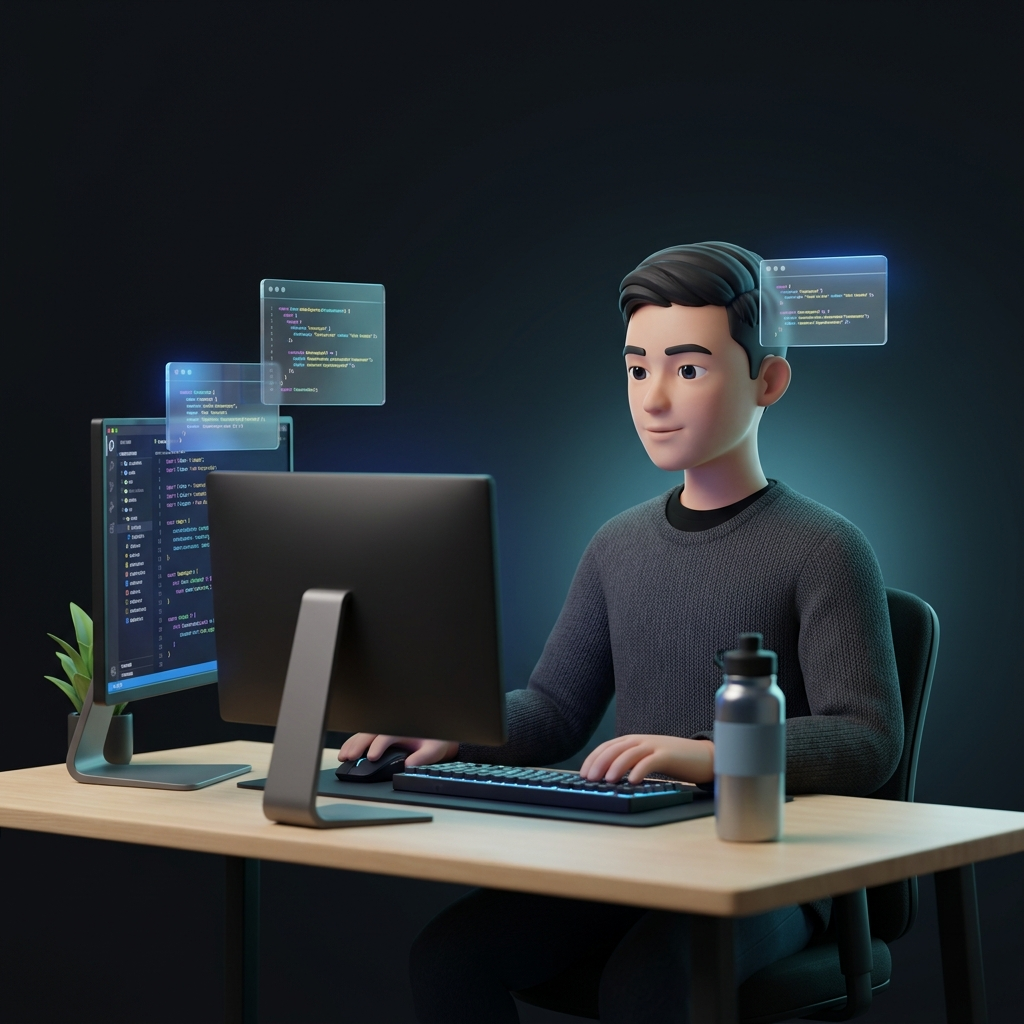
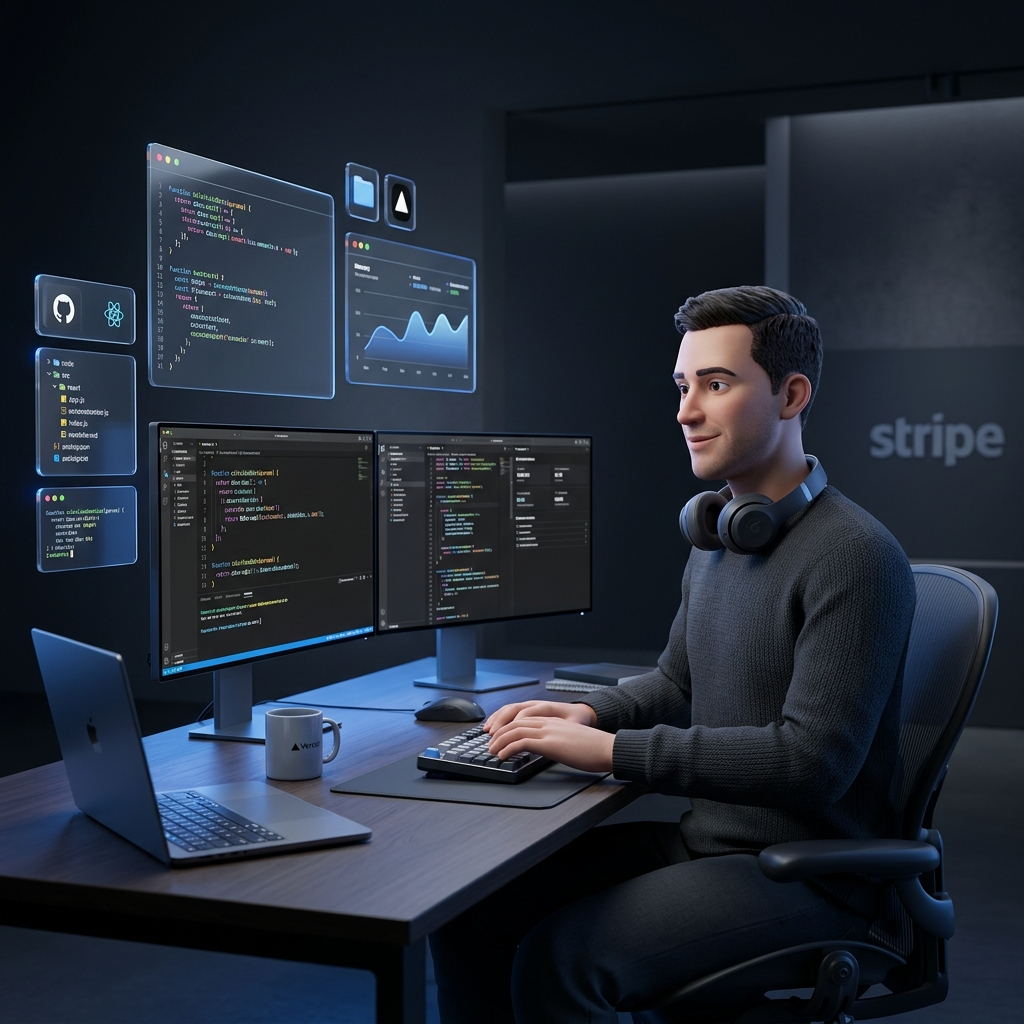
Design: updated to a more premium and detailed 3D software engineer character illustration

diff --git a/out/404.html b/out/404.html
@@ -1,1 +1,1 @@
-<!DOCTYPE html><html lang="en"><head><meta charSet="utf-8"/><meta name="viewport" content="width=device-width, initial-scale=1"/><link rel="stylesheet" href="/Portfolio/_next/static/css/2158bf51de13b72e.css" data-precedence="next"/><link rel="preload" as="script" fetchPriority="low" href="/Portfolio/_next/static/chunks/webpack-678887b2f921704d.js"/><script src="/Portfolio/_next/static/chunks/fd9d1056-421f9c5621f8b110.js" async=""></script><script src="/Portfolio/_next/static/chunks/117-5a9f8f75d3672a71.js" async=""></script><script src="/Portfolio/_next/static/chunks/main-app-9aa994c62beb1498.js" async=""></script><script src="/Portfolio/_next/static/chunks/app/layout-621f4c23dfdaa272.js" async=""></script><meta name="robots" content="noindex"/><title>404: This page could not be found.</title><title>Nabil KARARA – Portfolio Web &amp; Mobile Developer</title><meta name="description" content="Portfolio personnel de Nabil KARARA, développeur web et mobile passionné. Découvrez mes projets en React, Node.js, Java et plus."/><meta name="author" content="Nabil KARARA"/><meta name="keywords" content="développeur web,développeur mobile,React,Node.js,Java,portfolio,Nabil KARARA"/><meta name="creator" content="Nabil KARARA"/><meta name="publisher" content="Nabil KARARA"/><meta name="robots" content="index, follow"/><meta name="googlebot" content="index, follow, max-video-preview:-1, max-image-preview:large, max-snippet:-1"/><meta property="og:title" content="Nabil KARARA – Portfolio Web &amp; Mobile Developer"/><meta property="og:description" content="Portfolio personnel de Nabil KARARA, développeur web et mobile passionné."/><meta property="og:url" content="https://nkarara.github.io/Portfolio"/><meta property="og:site_name" content="Nabil KARARA Portfolio"/><meta property="og:locale" content="fr_FR"/><meta property="og:image" content="https://nkarara.github.io/Portfolio/Portfolio/NABIL_Profil.jpg"/><meta property="og:image:width" content="1200"/><meta property="og:image:height" content="630"/><meta property="og:image:alt" content="Nabil KARARA - Portfolio"/><meta property="og:type" content="website"/><meta name="twitter:card" content="summary_large_image"/><meta name="twitter:creator" content="@nabilkarara"/><meta name="twitter:title" content="Nabil KARARA – Portfolio Web &amp; Mobile Developer"/><meta name="twitter:description" content="Portfolio personnel de Nabil KARARA, développeur web et mobile passionné."/><meta name="twitter:image" content="https://nkarara.github.io/Portfolio/Portfolio/NABIL_Profil.jpg"/><script src="/Portfolio/_next/static/chunks/polyfills-42372ed130431b0a.js" noModule=""></script></head><body class="font-sans __variable_9f14f2 __variable_16c33f"><div class="liquid-bg" aria-hidden="true"></div><div class="liquid-orb-cyan" aria-hidden="true"></div><!--$--><div style="font-family:system-ui,&quot;Segoe UI&quot;,Roboto,Helvetica,Arial,sans-serif,&quot;Apple Color Emoji&quot;,&quot;Segoe UI Emoji&quot;;height:100vh;text-align:center;display:flex;flex-direction:column;align-items:center;justify-content:center"><div><style>body{color:#000;background:#fff;margin:0}.next-error-h1{border-right:1px solid rgba(0,0,0,.3)}@media (prefers-color-scheme:dark){body{color:#fff;background:#000}.next-error-h1{border-right:1px solid rgba(255,255,255,.3)}}</style><h1 class="next-error-h1" style="display:inline-block;margin:0 20px 0 0;padding:0 23px 0 0;font-size:24px;font-weight:500;vertical-align:top;line-height:49px">404</h1><div style="display:inline-block"><h2 style="font-size:14px;font-weight:400;line-height:49px;margin:0">This page could not be found.</h2></div></div></div><!--/$--><script src="/Portfolio/_next/static/chunks/webpack-678887b2f921704d.js" async=""></script><script>(self.__next_f=self.__next_f||[]).push([0]);self.__next_f.push([2,null])</script><script>self.__next_f.push([1,"1:HL[\"/Portfolio/_next/static/css/2158bf51de13b72e.css\",\"style\"]\n"])</script><script>self.__next_f.push([1,"2:I[2846,[],\"\"]\n4:I[4707,[],\"\"]\n5:I[6423,[],\"\"]\n6:I[708,[\"185\",\"static/chunks/app/layout-621f4c23dfdaa272.js\"],\"Providers\"]\n7:\"$Sreact.suspense\"\nd:I[1060,[],\"\"]\n8:{\"fontFamily\":\"system-ui,\\\"Segoe UI\\\",Roboto,Helvetica,Arial,sans-serif,\\\"Apple Color Emoji\\\",\\\"Segoe UI Emoji\\\"\",\"height\":\"100vh\",\"textAlign\":\"center\",\"display\":\"flex\",\"flexDirection\":\"column\",\"alignItems\":\"center\",\"justifyContent\":\"center\"}\n9:{\"display\":\"inline-block\",\"margin\":\"0 20px 0 0\",\"padding\":\"0 23px 0 0\",\"fontSize\":24,\"fontWeight\":500,\"verticalAlign\":\"top\",\"lineHeight\":\"49px\"}\na:{\"display\":\"inline-block\"}\nb:{\"fontSize\":14,\"fontWeight\":400,\"lineHeight\":\"49px\",\"margin\":0}\ne:[]\n"])</script><script>self.__next_f.push([1,"0:[\"$\",\"$L2\",null,{\"buildId\":\"M_cHpKryjJmSYJHP95g3o\",\"assetPrefix\":\"/Portfolio\",\"urlParts\":[\"\",\"_not-found\"],\"initialTree\":[\"\",{\"children\":[\"/_not-found\",{\"children\":[\"__PAGE__\",{}]}]},\"$undefined\",\"$undefined\",true],\"initialSeedData\":[\"\",{\"children\":[\"/_not-found\",{\"children\":[\"__PAGE__\",{},[[\"$L3\",[[\"$\",\"title\",null,{\"children\":\"404: This page could not be found.\"}],[\"$\",\"div\",null,{\"style\":{\"fontFamily\":\"system-ui,\\\"Segoe UI\\\",Roboto,Helvetica,Arial,sans-serif,\\\"Apple Color Emoji\\\",\\\"Segoe UI Emoji\\\"\",\"height\":\"100vh\",\"textAlign\":\"center\",\"display\":\"flex\",\"flexDirection\":\"column\",\"alignItems\":\"center\",\"justifyContent\":\"center\"},\"children\":[\"$\",\"div\",null,{\"children\":[[\"$\",\"style\",null,{\"dangerouslySetInnerHTML\":{\"__html\":\"body{color:#000;background:#fff;margin:0}.next-error-h1{border-right:1px solid rgba(0,0,0,.3)}@media (prefers-color-scheme:dark){body{color:#fff;background:#000}.next-error-h1{border-right:1px solid rgba(255,255,255,.3)}}\"}}],[\"$\",\"h1\",null,{\"className\":\"next-error-h1\",\"style\":{\"display\":\"inline-block\",\"margin\":\"0 20px 0 0\",\"padding\":\"0 23px 0 0\",\"fontSize\":24,\"fontWeight\":500,\"verticalAlign\":\"top\",\"lineHeight\":\"49px\"},\"children\":\"404\"}],[\"$\",\"div\",null,{\"style\":{\"display\":\"inline-block\"},\"children\":[\"$\",\"h2\",null,{\"style\":{\"fontSize\":14,\"fontWeight\":400,\"lineHeight\":\"49px\",\"margin\":0},\"children\":\"This page could not be found.\"}]}]]}]}]],null],null],null]},[null,[\"$\",\"$L4\",null,{\"parallelRouterKey\":\"children\",\"segmentPath\":[\"children\",\"/_not-found\",\"children\"],\"error\":\"$undefined\",\"errorStyles\":\"$undefined\",\"errorScripts\":\"$undefined\",\"template\":[\"$\",\"$L5\",null,{}],\"templateStyles\":\"$undefined\",\"templateScripts\":\"$undefined\",\"notFound\":\"$undefined\",\"notFoundStyles\":\"$undefined\"}]],null]},[[[[\"$\",\"link\",\"0\",{\"rel\":\"stylesheet\",\"href\":\"/Portfolio/_next/static/css/2158bf51de13b72e.css\",\"precedence\":\"next\",\"crossOrigin\":\"$undefined\"}]],[\"$\",\"html\",null,{\"lang\":\"en\",\"children\":[\"$\",\"body\",null,{\"className\":\"font-sans __variable_9f14f2 __variable_16c33f\",\"children\":[[\"$\",\"div\",null,{\"className\":\"liquid-bg\",\"aria-hidden\":\"true\"}],[\"$\",\"div\",null,{\"className\":\"liquid-orb-cyan\",\"aria-hidden\":\"true\"}],[\"$\",\"$L6\",null,{\"children\":[\"$\",\"$7\",null,{\"fallback\":[\"$\",\"div\",null,{\"children\":\"Loading...\"}],\"children\":[\"$\",\"$L4\",null,{\"parallelRouterKey\":\"children\",\"segmentPath\":[\"children\"],\"error\":\"$undefined\",\"errorStyles\":\"$undefined\",\"errorScripts\":\"$undefined\",\"template\":[\"$\",\"$L5\",null,{}],\"templateStyles\":\"$undefined\",\"templateScripts\":\"$undefined\",\"notFound\":[[\"$\",\"title\",null,{\"children\":\"404: This page could not be found.\"}],[\"$\",\"div\",null,{\"style\":\"$8\",\"children\":[\"$\",\"div\",null,{\"children\":[[\"$\",\"style\",null,{\"dangerouslySetInnerHTML\":{\"__html\":\"body{color:#000;background:#fff;margin:0}.next-error-h1{border-right:1px solid rgba(0,0,0,.3)}@media (prefers-color-scheme:dark){body{color:#fff;background:#000}.next-error-h1{border-right:1px solid rgba(255,255,255,.3)}}\"}}],[\"$\",\"h1\",null,{\"className\":\"next-error-h1\",\"style\":\"$9\",\"children\":\"404\"}],[\"$\",\"div\",null,{\"style\":\"$a\",\"children\":[\"$\",\"h2\",null,{\"style\":\"$b\",\"children\":\"This page could not be found.\"}]}]]}]}]],\"notFoundStyles\":[]}]}]}]]}]}]],null],null],\"couldBeIntercepted\":false,\"initialHead\":[[\"$\",\"meta\",null,{\"name\":\"robots\",\"content\":\"noindex\"}],\"$Lc\"],\"globalErrorComponent\":\"$d\",\"missingSlots\":\"$We\"}]\n"])</script><script>self.__next_f.push([1,"c:[[\"$\",\"meta\",\"0\",{\"name\":\"viewport\",\"content\":\"width=device-width, initial-scale=1\"}],[\"$\",\"meta\",\"1\",{\"charSet\":\"utf-8\"}],[\"$\",\"title\",\"2\",{\"children\":\"Nabil KARARA – Portfolio Web \u0026 Mobile Developer\"}],[\"$\",\"meta\",\"3\",{\"name\":\"description\",\"content\":\"Portfolio personnel de Nabil KARARA, développeur web et mobile passionné. Découvrez mes projets en React, Node.js, Java et plus.\"}],[\"$\",\"meta\",\"4\",{\"name\":\"author\",\"content\":\"Nabil KARARA\"}],[\"$\",\"meta\",\"5\",{\"name\":\"keywords\",\"content\":\"développeur web,développeur mobile,React,Node.js,Java,portfolio,Nabil KARARA\"}],[\"$\",\"meta\",\"6\",{\"name\":\"creator\",\"content\":\"Nabil KARARA\"}],[\"$\",\"meta\",\"7\",{\"name\":\"publisher\",\"content\":\"Nabil KARARA\"}],[\"$\",\"meta\",\"8\",{\"name\":\"robots\",\"content\":\"index, follow\"}],[\"$\",\"meta\",\"9\",{\"name\":\"googlebot\",\"content\":\"index, follow, max-video-preview:-1, max-image-preview:large, max-snippet:-1\"}],[\"$\",\"meta\",\"10\",{\"property\":\"og:title\",\"content\":\"Nabil KARARA – Portfolio Web \u0026 Mobile Developer\"}],[\"$\",\"meta\",\"11\",{\"property\":\"og:description\",\"content\":\"Portfolio personnel de Nabil KARARA, développeur web et mobile passionné.\"}],[\"$\",\"meta\",\"12\",{\"property\":\"og:url\",\"content\":\"https://nkarara.github.io/Portfolio\"}],[\"$\",\"meta\",\"13\",{\"property\":\"og:site_name\",\"content\":\"Nabil KARARA Portfolio\"}],[\"$\",\"meta\",\"14\",{\"property\":\"og:locale\",\"content\":\"fr_FR\"}],[\"$\",\"meta\",\"15\",{\"property\":\"og:image\",\"content\":\"https://nkarara.github.io/Portfolio/Portfolio/NABIL_Profil.jpg\"}],[\"$\",\"meta\",\"16\",{\"property\":\"og:image:width\",\"content\":\"1200\"}],[\"$\",\"meta\",\"17\",{\"property\":\"og:image:height\",\"content\":\"630\"}],[\"$\",\"meta\",\"18\",{\"property\":\"og:image:alt\",\"content\":\"Nabil KARARA - Portfolio\"}],[\"$\",\"meta\",\"19\",{\"property\":\"og:type\",\"content\":\"website\"}],[\"$\",\"meta\",\"20\",{\"name\":\"twitter:card\",\"content\":\"summary_large_image\"}],[\"$\",\"meta\",\"21\",{\"name\":\"twitter:creator\",\"content\":\"@nabilkarara\"}],[\"$\",\"meta\",\"22\",{\"name\":\"twitter:title\",\"content\":\"Nabil KARARA – Portfolio Web \u0026 Mobile Developer\"}],[\"$\",\"meta\",\"23\",{\"name\":\"twitter:description\",\"content\":\"Portfolio personnel de Nabil KARARA, développeur web et mobile passionné.\"}],[\"$\",\"meta\",\"24\",{\"name\":\"twitter:image\",\"content\":\"https://nkarara.github.io/Portfolio/Portfolio/NABIL_Profil.jpg\"}]]\n"])</script><script>self.__next_f.push([1,"3:null\n"])</script></body></html>
+<!DOCTYPE html><html lang="en"><head><meta charSet="utf-8"/><meta name="viewport" content="width=device-width, initial-scale=1"/><link rel="stylesheet" href="/Portfolio/_next/static/css/2158bf51de13b72e.css" data-precedence="next"/><link rel="preload" as="script" fetchPriority="low" href="/Portfolio/_next/static/chunks/webpack-678887b2f921704d.js"/><script src="/Portfolio/_next/static/chunks/fd9d1056-421f9c5621f8b110.js" async=""></script><script src="/Portfolio/_next/static/chunks/117-5a9f8f75d3672a71.js" async=""></script><script src="/Portfolio/_next/static/chunks/main-app-9aa994c62beb1498.js" async=""></script><script src="/Portfolio/_next/static/chunks/app/layout-621f4c23dfdaa272.js" async=""></script><meta name="robots" content="noindex"/><title>404: This page could not be found.</title><title>Nabil KARARA – Portfolio Web &amp; Mobile Developer</title><meta name="description" content="Portfolio personnel de Nabil KARARA, développeur web et mobile passionné. Découvrez mes projets en React, Node.js, Java et plus."/><meta name="author" content="Nabil KARARA"/><meta name="keywords" content="développeur web,développeur mobile,React,Node.js,Java,portfolio,Nabil KARARA"/><meta name="creator" content="Nabil KARARA"/><meta name="publisher" content="Nabil KARARA"/><meta name="robots" content="index, follow"/><meta name="googlebot" content="index, follow, max-video-preview:-1, max-image-preview:large, max-snippet:-1"/><meta property="og:title" content="Nabil KARARA – Portfolio Web &amp; Mobile Developer"/><meta property="og:description" content="Portfolio personnel de Nabil KARARA, développeur web et mobile passionné."/><meta property="og:url" content="https://nkarara.github.io/Portfolio"/><meta property="og:site_name" content="Nabil KARARA Portfolio"/><meta property="og:locale" content="fr_FR"/><meta property="og:image" content="https://nkarara.github.io/Portfolio/Portfolio/NABIL_Profil.jpg"/><meta property="og:image:width" content="1200"/><meta property="og:image:height" content="630"/><meta property="og:image:alt" content="Nabil KARARA - Portfolio"/><meta property="og:type" content="website"/><meta name="twitter:card" content="summary_large_image"/><meta name="twitter:creator" content="@nabilkarara"/><meta name="twitter:title" content="Nabil KARARA – Portfolio Web &amp; Mobile Developer"/><meta name="twitter:description" content="Portfolio personnel de Nabil KARARA, développeur web et mobile passionné."/><meta name="twitter:image" content="https://nkarara.github.io/Portfolio/Portfolio/NABIL_Profil.jpg"/><script src="/Portfolio/_next/static/chunks/polyfills-42372ed130431b0a.js" noModule=""></script></head><body class="font-sans __variable_9f14f2 __variable_16c33f"><div class="liquid-bg" aria-hidden="true"></div><div class="liquid-orb-cyan" aria-hidden="true"></div><!--$--><div style="font-family:system-ui,&quot;Segoe UI&quot;,Roboto,Helvetica,Arial,sans-serif,&quot;Apple Color Emoji&quot;,&quot;Segoe UI Emoji&quot;;height:100vh;text-align:center;display:flex;flex-direction:column;align-items:center;justify-content:center"><div><style>body{color:#000;background:#fff;margin:0}.next-error-h1{border-right:1px solid rgba(0,0,0,.3)}@media (prefers-color-scheme:dark){body{color:#fff;background:#000}.next-error-h1{border-right:1px solid rgba(255,255,255,.3)}}</style><h1 class="next-error-h1" style="display:inline-block;margin:0 20px 0 0;padding:0 23px 0 0;font-size:24px;font-weight:500;vertical-align:top;line-height:49px">404</h1><div style="display:inline-block"><h2 style="font-size:14px;font-weight:400;line-height:49px;margin:0">This page could not be found.</h2></div></div></div><!--/$--><script src="/Portfolio/_next/static/chunks/webpack-678887b2f921704d.js" async=""></script><script>(self.__next_f=self.__next_f||[]).push([0]);self.__next_f.push([2,null])</script><script>self.__next_f.push([1,"1:HL[\"/Portfolio/_next/static/css/2158bf51de13b72e.css\",\"style\"]\n"])</script><script>self.__next_f.push([1,"2:I[2846,[],\"\"]\n4:I[4707,[],\"\"]\n5:I[6423,[],\"\"]\n6:I[708,[\"185\",\"static/chunks/app/layout-621f4c23dfdaa272.js\"],\"Providers\"]\n7:\"$Sreact.suspense\"\nd:I[1060,[],\"\"]\n8:{\"fontFamily\":\"system-ui,\\\"Segoe UI\\\",Roboto,Helvetica,Arial,sans-serif,\\\"Apple Color Emoji\\\",\\\"Segoe UI Emoji\\\"\",\"height\":\"100vh\",\"textAlign\":\"center\",\"display\":\"flex\",\"flexDirection\":\"column\",\"alignItems\":\"center\",\"justifyContent\":\"center\"}\n9:{\"display\":\"inline-block\",\"margin\":\"0 20px 0 0\",\"padding\":\"0 23px 0 0\",\"fontSize\":24,\"fontWeight\":500,\"verticalAlign\":\"top\",\"lineHeight\":\"49px\"}\na:{\"display\":\"inline-block\"}\nb:{\"fontSize\":14,\"fontWeight\":400,\"lineHeight\":\"49px\",\"margin\":0}\ne:[]\n"])</script><script>self.__next_f.push([1,"0:[\"$\",\"$L2\",null,{\"buildId\":\"QFOHkrY7pbW1WzX1giLO6\",\"assetPrefix\":\"/Portfolio\",\"urlParts\":[\"\",\"_not-found\"],\"initialTree\":[\"\",{\"children\":[\"/_not-found\",{\"children\":[\"__PAGE__\",{}]}]},\"$undefined\",\"$undefined\",true],\"initialSeedData\":[\"\",{\"children\":[\"/_not-found\",{\"children\":[\"__PAGE__\",{},[[\"$L3\",[[\"$\",\"title\",null,{\"children\":\"404: This page could not be found.\"}],[\"$\",\"div\",null,{\"style\":{\"fontFamily\":\"system-ui,\\\"Segoe UI\\\",Roboto,Helvetica,Arial,sans-serif,\\\"Apple Color Emoji\\\",\\\"Segoe UI Emoji\\\"\",\"height\":\"100vh\",\"textAlign\":\"center\",\"display\":\"flex\",\"flexDirection\":\"column\",\"alignItems\":\"center\",\"justifyContent\":\"center\"},\"children\":[\"$\",\"div\",null,{\"children\":[[\"$\",\"style\",null,{\"dangerouslySetInnerHTML\":{\"__html\":\"body{color:#000;background:#fff;margin:0}.next-error-h1{border-right:1px solid rgba(0,0,0,.3)}@media (prefers-color-scheme:dark){body{color:#fff;background:#000}.next-error-h1{border-right:1px solid rgba(255,255,255,.3)}}\"}}],[\"$\",\"h1\",null,{\"className\":\"next-error-h1\",\"style\":{\"display\":\"inline-block\",\"margin\":\"0 20px 0 0\",\"padding\":\"0 23px 0 0\",\"fontSize\":24,\"fontWeight\":500,\"verticalAlign\":\"top\",\"lineHeight\":\"49px\"},\"children\":\"404\"}],[\"$\",\"div\",null,{\"style\":{\"display\":\"inline-block\"},\"children\":[\"$\",\"h2\",null,{\"style\":{\"fontSize\":14,\"fontWeight\":400,\"lineHeight\":\"49px\",\"margin\":0},\"children\":\"This page could not be found.\"}]}]]}]}]],null],null],null]},[null,[\"$\",\"$L4\",null,{\"parallelRouterKey\":\"children\",\"segmentPath\":[\"children\",\"/_not-found\",\"children\"],\"error\":\"$undefined\",\"errorStyles\":\"$undefined\",\"errorScripts\":\"$undefined\",\"template\":[\"$\",\"$L5\",null,{}],\"templateStyles\":\"$undefined\",\"templateScripts\":\"$undefined\",\"notFound\":\"$undefined\",\"notFoundStyles\":\"$undefined\"}]],null]},[[[[\"$\",\"link\",\"0\",{\"rel\":\"stylesheet\",\"href\":\"/Portfolio/_next/static/css/2158bf51de13b72e.css\",\"precedence\":\"next\",\"crossOrigin\":\"$undefined\"}]],[\"$\",\"html\",null,{\"lang\":\"en\",\"children\":[\"$\",\"body\",null,{\"className\":\"font-sans __variable_9f14f2 __variable_16c33f\",\"children\":[[\"$\",\"div\",null,{\"className\":\"liquid-bg\",\"aria-hidden\":\"true\"}],[\"$\",\"div\",null,{\"className\":\"liquid-orb-cyan\",\"aria-hidden\":\"true\"}],[\"$\",\"$L6\",null,{\"children\":[\"$\",\"$7\",null,{\"fallback\":[\"$\",\"div\",null,{\"children\":\"Loading...\"}],\"children\":[\"$\",\"$L4\",null,{\"parallelRouterKey\":\"children\",\"segmentPath\":[\"children\"],\"error\":\"$undefined\",\"errorStyles\":\"$undefined\",\"errorScripts\":\"$undefined\",\"template\":[\"$\",\"$L5\",null,{}],\"templateStyles\":\"$undefined\",\"templateScripts\":\"$undefined\",\"notFound\":[[\"$\",\"title\",null,{\"children\":\"404: This page could not be found.\"}],[\"$\",\"div\",null,{\"style\":\"$8\",\"children\":[\"$\",\"div\",null,{\"children\":[[\"$\",\"style\",null,{\"dangerouslySetInnerHTML\":{\"__html\":\"body{color:#000;background:#fff;margin:0}.next-error-h1{border-right:1px solid rgba(0,0,0,.3)}@media (prefers-color-scheme:dark){body{color:#fff;background:#000}.next-error-h1{border-right:1px solid rgba(255,255,255,.3)}}\"}}],[\"$\",\"h1\",null,{\"className\":\"next-error-h1\",\"style\":\"$9\",\"children\":\"404\"}],[\"$\",\"div\",null,{\"style\":\"$a\",\"children\":[\"$\",\"h2\",null,{\"style\":\"$b\",\"children\":\"This page could not be found.\"}]}]]}]}]],\"notFoundStyles\":[]}]}]}]]}]}]],null],null],\"couldBeIntercepted\":false,\"initialHead\":[[\"$\",\"meta\",null,{\"name\":\"robots\",\"content\":\"noindex\"}],\"$Lc\"],\"globalErrorComponent\":\"$d\",\"missingSlots\":\"$We\"}]\n"])</script><script>self.__next_f.push([1,"c:[[\"$\",\"meta\",\"0\",{\"name\":\"viewport\",\"content\":\"width=device-width, initial-scale=1\"}],[\"$\",\"meta\",\"1\",{\"charSet\":\"utf-8\"}],[\"$\",\"title\",\"2\",{\"children\":\"Nabil KARARA – Portfolio Web \u0026 Mobile Developer\"}],[\"$\",\"meta\",\"3\",{\"name\":\"description\",\"content\":\"Portfolio personnel de Nabil KARARA, développeur web et mobile passionné. Découvrez mes projets en React, Node.js, Java et plus.\"}],[\"$\",\"meta\",\"4\",{\"name\":\"author\",\"content\":\"Nabil KARARA\"}],[\"$\",\"meta\",\"5\",{\"name\":\"keywords\",\"content\":\"développeur web,développeur mobile,React,Node.js,Java,portfolio,Nabil KARARA\"}],[\"$\",\"meta\",\"6\",{\"name\":\"creator\",\"content\":\"Nabil KARARA\"}],[\"$\",\"meta\",\"7\",{\"name\":\"publisher\",\"content\":\"Nabil KARARA\"}],[\"$\",\"meta\",\"8\",{\"name\":\"robots\",\"content\":\"index, follow\"}],[\"$\",\"meta\",\"9\",{\"name\":\"googlebot\",\"content\":\"index, follow, max-video-preview:-1, max-image-preview:large, max-snippet:-1\"}],[\"$\",\"meta\",\"10\",{\"property\":\"og:title\",\"content\":\"Nabil KARARA – Portfolio Web \u0026 Mobile Developer\"}],[\"$\",\"meta\",\"11\",{\"property\":\"og:description\",\"content\":\"Portfolio personnel de Nabil KARARA, développeur web et mobile passionné.\"}],[\"$\",\"meta\",\"12\",{\"property\":\"og:url\",\"content\":\"https://nkarara.github.io/Portfolio\"}],[\"$\",\"meta\",\"13\",{\"property\":\"og:site_name\",\"content\":\"Nabil KARARA Portfolio\"}],[\"$\",\"meta\",\"14\",{\"property\":\"og:locale\",\"content\":\"fr_FR\"}],[\"$\",\"meta\",\"15\",{\"property\":\"og:image\",\"content\":\"https://nkarara.github.io/Portfolio/Portfolio/NABIL_Profil.jpg\"}],[\"$\",\"meta\",\"16\",{\"property\":\"og:image:width\",\"content\":\"1200\"}],[\"$\",\"meta\",\"17\",{\"property\":\"og:image:height\",\"content\":\"630\"}],[\"$\",\"meta\",\"18\",{\"property\":\"og:image:alt\",\"content\":\"Nabil KARARA - Portfolio\"}],[\"$\",\"meta\",\"19\",{\"property\":\"og:type\",\"content\":\"website\"}],[\"$\",\"meta\",\"20\",{\"name\":\"twitter:card\",\"content\":\"summary_large_image\"}],[\"$\",\"meta\",\"21\",{\"name\":\"twitter:creator\",\"content\":\"@nabilkarara\"}],[\"$\",\"meta\",\"22\",{\"name\":\"twitter:title\",\"content\":\"Nabil KARARA – Portfolio Web \u0026 Mobile Developer\"}],[\"$\",\"meta\",\"23\",{\"name\":\"twitter:description\",\"content\":\"Portfolio personnel de Nabil KARARA, développeur web et mobile passionné.\"}],[\"$\",\"meta\",\"24\",{\"name\":\"twitter:image\",\"content\":\"https://nkarara.github.io/Portfolio/Portfolio/NABIL_Profil.jpg\"}]]\n"])</script><script>self.__next_f.push([1,"3:null\n"])</script></body></html>